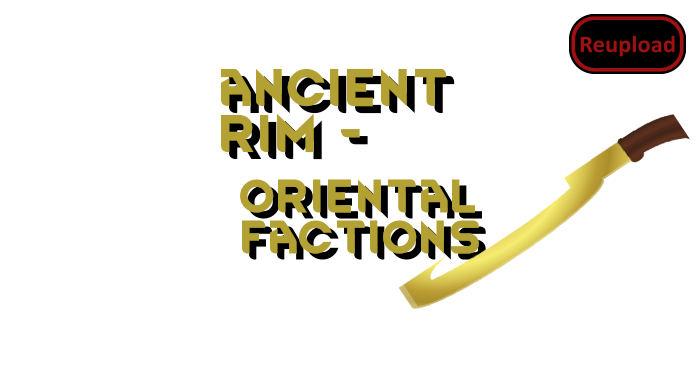
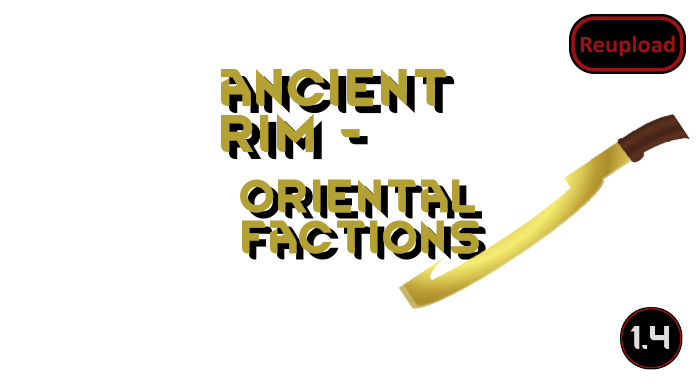
The Egyptian empire will now correctly give access to tech-prints

Changed region(s): [[0.87, 0.7752, 0.99, 0.9612]]

diff --git a/README.md b/README.md
@@ -27,4 +27,4 @@ The Oriental Factions mod populates RimWorld with factions that use the gear add
 -  If you have the solution for a problem, please post it to the GitHub repository.
 
 
-https://steamcommunity.com/sharedfiles/filedetails/changelog/2458189325]Last updated 2023-05-11
+https://steamcommunity.com/sharedfiles/filedetails/changelog/2458189325]Last updated 2023-07-09
